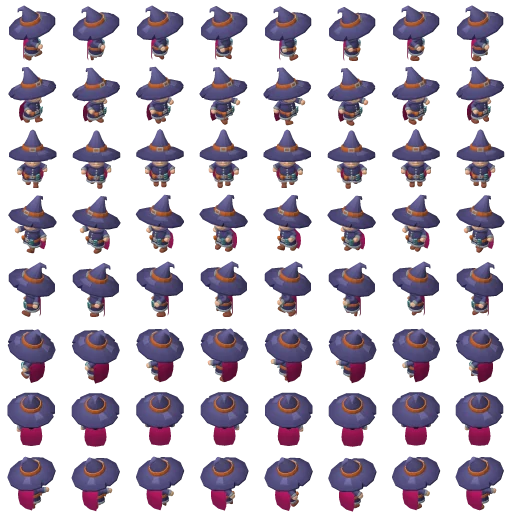
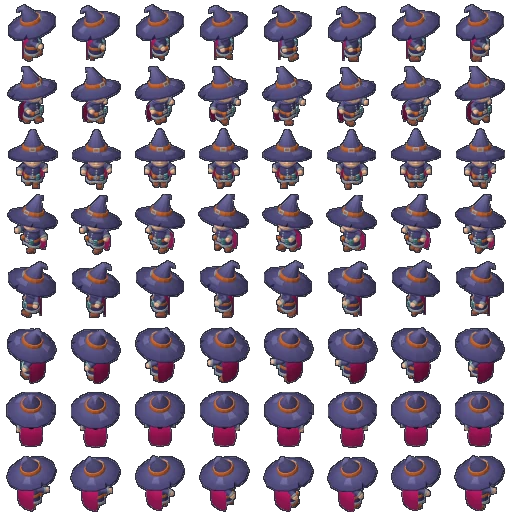
«Город»: больше жителей и непрозрачные фигуры, версия 0.22.2 (#101)
- Жителей до 32 / 52 / 80, до 11 на площадь (у глобуса 12)
- Атласы: плотная альфа и тёмный контур, появление за 0,5 с
- Быстрее начальное заполнение карты
- Документация, CHANGELOG, AGENTS.md, версия 0.22.2

Claude-Session: https://claude.ai/code/session_01NAK4mbhWpKoYFfv8XLsFMr

diff --git a/src/cityLive/wideMap.ts b/src/cityLive/wideMap.ts
@@ -20,15 +20,15 @@ const roads: CityRoute[] = [
 ];
 // Жители ходят по плитке вокруг фонтанов, а не по газонам, дорогам и воде.
 const walkers: CityRoute[] = [
-  route('wide-plaza-finance','pedestrian',[[0.12600,0.53956],[0.13882,0.53615],[0.15182,0.53536],[0.16481,0.53497],[0.17781,0.53488],[0.19081,0.53549],[0.20371,0.53807],[0.21524,0.54806],[0.21847,0.56903],[0.21027,0.58581],[0.19760,0.59076],[0.18466,0.59298],[0.17168,0.59425],[0.15869,0.59457],[0.14572,0.59306],[0.13316,0.58730],[0.12236,0.57492],[0.12015,0.55272]],true,5.2,7),
-  route('wide-plaza-sport','pedestrian',[[0.27400,0.37156],[0.28413,0.35946],[0.29709,0.35765],[0.31008,0.35733],[0.32308,0.35760],[0.33599,0.36000],[0.34538,0.37465],[0.34410,0.39625],[0.33207,0.40411],[0.31917,0.40686],[0.30620,0.40598],[0.29351,0.40104],[0.28134,0.39304]],true,5.2,7),
-  route('wide-plaza-health','pedestrian',[[0.43500,0.33067],[0.44056,0.31173],[0.45339,0.30833],[0.46636,0.30697],[0.47936,0.30654],[0.49236,0.30673],[0.50536,0.30724],[0.51832,0.30888],[0.53074,0.31522],[0.53637,0.33466],[0.53322,0.35679],[0.52248,0.36907],[0.50995,0.37513],[0.49701,0.37695],[0.48401,0.37686],[0.47102,0.37613],[0.45813,0.37317],[0.44567,0.36677],[0.43552,0.35269]],true,5.2,7),
-  route('wide-plaza-growth','pedestrian',[[0.63100,0.38400],[0.64227,0.37284],[0.65509,0.36934],[0.66809,0.36884],[0.68108,0.36974],[0.69394,0.37284],[0.70486,0.38456],[0.70448,0.40561],[0.69387,0.41862],[0.68129,0.42422],[0.66838,0.42691],[0.65540,0.42776],[0.64258,0.42449],[0.63181,0.41206]],true,5.2,7),
-  route('wide-plaza-tasks','pedestrian',[[0.46000,0.77156],[0.46947,0.75884],[0.48243,0.75704],[0.49542,0.75633],[0.50842,0.75640],[0.52140,0.75751],[0.53435,0.75949],[0.54639,0.76706],[0.54625,0.78753],[0.53591,0.80129],[0.52323,0.80575],[0.51023,0.80624],[0.49723,0.80616],[0.48426,0.80489],[0.47189,0.79817],[0.46091,0.78597]],true,5.2,7),
-  route('wide-plaza-joint','pedestrian',[[0.71600,0.64444],[0.72584,0.63081],[0.73877,0.62866],[0.75177,0.62838],[0.76476,0.62916],[0.77771,0.63119],[0.79058,0.63444],[0.80303,0.64066],[0.80762,0.66077],[0.80169,0.68071],[0.78935,0.68690],[0.77638,0.68836],[0.76338,0.68886],[0.75038,0.68889],[0.73738,0.68951],[0.72448,0.68769],[0.71535,0.67204]],true,5.2,7),
-  route('wide-plaza-english','pedestrian',[[0.84100,0.50222],[0.84912,0.48770],[0.86207,0.48582],[0.87506,0.48525],[0.88806,0.48533],[0.90083,0.48900],[0.90816,0.50627],[0.90056,0.52401],[0.88811,0.52991],[0.87512,0.53073],[0.86214,0.52959],[0.84933,0.52586]],true,5.2,7),
-  route('wide-plaza-leisure','pedestrian',[[0.89750,0.76444],[0.90743,0.75115],[0.92025,0.74738],[0.93320,0.74541],[0.94619,0.74478],[0.95918,0.74564],[0.97196,0.74950],[0.98207,0.76330],[0.98420,0.78538],[0.97753,0.80465],[0.96510,0.81050],[0.95212,0.81146],[0.93912,0.81143],[0.92615,0.80996],[0.91322,0.80753],[0.90192,0.79704],[0.89658,0.77647]],true,5.2,7),
-  route('wide-plaza-globe','pedestrian',[[0.42500,0.47822],[0.42820,0.45609],[0.43756,0.44052],[0.44962,0.43197],[0.46217,0.42600],[0.47497,0.42209],[0.48795,0.42098],[0.50093,0.42204],[0.51382,0.42508],[0.52635,0.43109],[0.53819,0.44061],[0.54897,0.45342],[0.55560,0.47282],[0.55487,0.49567],[0.54800,0.51484],[0.53629,0.52461],[0.52369,0.53025],[0.51085,0.53381],[0.49787,0.53500],[0.48487,0.53509],[0.47188,0.53436],[0.45902,0.53117],[0.44648,0.52514],[0.43486,0.51499],[0.42723,0.49661]],true,5.2,9),
+  route('wide-plaza-finance','pedestrian',[[0.12600,0.53956],[0.13882,0.53615],[0.15182,0.53536],[0.16481,0.53497],[0.17781,0.53488],[0.19081,0.53549],[0.20371,0.53807],[0.21524,0.54806],[0.21847,0.56903],[0.21027,0.58581],[0.19760,0.59076],[0.18466,0.59298],[0.17168,0.59425],[0.15869,0.59457],[0.14572,0.59306],[0.13316,0.58730],[0.12236,0.57492],[0.12015,0.55272]],true,5.2,11),
+  route('wide-plaza-sport','pedestrian',[[0.27400,0.37156],[0.28413,0.35946],[0.29709,0.35765],[0.31008,0.35733],[0.32308,0.35760],[0.33599,0.36000],[0.34538,0.37465],[0.34410,0.39625],[0.33207,0.40411],[0.31917,0.40686],[0.30620,0.40598],[0.29351,0.40104],[0.28134,0.39304]],true,5.2,11),
+  route('wide-plaza-health','pedestrian',[[0.43500,0.33067],[0.44056,0.31173],[0.45339,0.30833],[0.46636,0.30697],[0.47936,0.30654],[0.49236,0.30673],[0.50536,0.30724],[0.51832,0.30888],[0.53074,0.31522],[0.53637,0.33466],[0.53322,0.35679],[0.52248,0.36907],[0.50995,0.37513],[0.49701,0.37695],[0.48401,0.37686],[0.47102,0.37613],[0.45813,0.37317],[0.44567,0.36677],[0.43552,0.35269]],true,5.2,11),
+  route('wide-plaza-growth','pedestrian',[[0.63100,0.38400],[0.64227,0.37284],[0.65509,0.36934],[0.66809,0.36884],[0.68108,0.36974],[0.69394,0.37284],[0.70486,0.38456],[0.70448,0.40561],[0.69387,0.41862],[0.68129,0.42422],[0.66838,0.42691],[0.65540,0.42776],[0.64258,0.42449],[0.63181,0.41206]],true,5.2,11),
+  route('wide-plaza-tasks','pedestrian',[[0.46000,0.77156],[0.46947,0.75884],[0.48243,0.75704],[0.49542,0.75633],[0.50842,0.75640],[0.52140,0.75751],[0.53435,0.75949],[0.54639,0.76706],[0.54625,0.78753],[0.53591,0.80129],[0.52323,0.80575],[0.51023,0.80624],[0.49723,0.80616],[0.48426,0.80489],[0.47189,0.79817],[0.46091,0.78597]],true,5.2,11),
+  route('wide-plaza-joint','pedestrian',[[0.71600,0.64444],[0.72584,0.63081],[0.73877,0.62866],[0.75177,0.62838],[0.76476,0.62916],[0.77771,0.63119],[0.79058,0.63444],[0.80303,0.64066],[0.80762,0.66077],[0.80169,0.68071],[0.78935,0.68690],[0.77638,0.68836],[0.76338,0.68886],[0.75038,0.68889],[0.73738,0.68951],[0.72448,0.68769],[0.71535,0.67204]],true,5.2,11),
+  route('wide-plaza-english','pedestrian',[[0.84100,0.50222],[0.84912,0.48770],[0.86207,0.48582],[0.87506,0.48525],[0.88806,0.48533],[0.90083,0.48900],[0.90816,0.50627],[0.90056,0.52401],[0.88811,0.52991],[0.87512,0.53073],[0.86214,0.52959],[0.84933,0.52586]],true,5.2,11),
+  route('wide-plaza-leisure','pedestrian',[[0.89750,0.76444],[0.90743,0.75115],[0.92025,0.74738],[0.93320,0.74541],[0.94619,0.74478],[0.95918,0.74564],[0.97196,0.74950],[0.98207,0.76330],[0.98420,0.78538],[0.97753,0.80465],[0.96510,0.81050],[0.95212,0.81146],[0.93912,0.81143],[0.92615,0.80996],[0.91322,0.80753],[0.90192,0.79704],[0.89658,0.77647]],true,5.2,11),
+  route('wide-plaza-globe','pedestrian',[[0.42500,0.47822],[0.42820,0.45609],[0.43756,0.44052],[0.44962,0.43197],[0.46217,0.42600],[0.47497,0.42209],[0.48795,0.42098],[0.50093,0.42204],[0.51382,0.42508],[0.52635,0.43109],[0.53819,0.44061],[0.54897,0.45342],[0.55560,0.47282],[0.55487,0.49567],[0.54800,0.51484],[0.53629,0.52461],[0.52369,0.53025],[0.51085,0.53381],[0.49787,0.53500],[0.48487,0.53509],[0.47188,0.53436],[0.45902,0.53117],[0.44648,0.52514],[0.43486,0.51499],[0.42723,0.49661]],true,5.2,12),
 ];
 const ships: CityRoute[] = [
   route('wide-bay-west-yacht','water',[[0.10750,0.80444],[0.11883,0.81146],[0.13017,0.81847],[0.14150,0.82548],[0.15283,0.83249],[0.16417,0.83949],[0.17551,0.84646],[0.18686,0.85341],[0.19820,0.86035],[0.20955,0.86732],[0.22088,0.87432],[0.23221,0.88137],[0.24354,0.88838],[0.25488,0.89536],[0.26621,0.90237],[0.27752,0.90950],[0.28879,0.91683],[0.30000,0.92445],[0.31112,0.93246],[0.32218,0.94076],[0.33319,0.94924],[0.34417,0.95784],[0.35514,0.96650],[0.36500,0.97422]],false,34,1),
@@ -102,5 +102,5 @@ export const wideProfile: CityProfile = {
   bridgeMasks: [], palms: [], beach: [], rainShine: [[600,780],[700,806],[800,852],[900,895]], signs: [[970,272],[578,362],[1353,368],[326,540],[1757,483],[748,636],[1490,605],[1007,775],[1790,775]],
   lightPoints: [[53,555],[137,598],[225,632],[316,661],[406,689],[493,728],[585,752],[674,782],[763,817],[849,856],[937,890],[1031,903],[1125,892],[1206,842],[1289,798],[1382,784],[1477,782],[1572,787],[1644,847],[1731,882],[1823,902],[1918,899],[1958,891],[252,607],[432,618],[355,668],[240,630],[548,418],[672,405],[676,452],[556,438],[870,372],[980,345],[1072,385],[980,424],[868,392],[1262,432],[1390,420],[1385,472],[1268,468],[920,868],[1040,852],[1085,893],[965,905],[1432,725],[1570,712],[1600,768],[1450,774],[1682,565],[1795,548],[1790,594],[1684,580],[1795,860],[1940,842],[1950,908],[1815,905],[850,538],[990,474],[1112,545],[980,602],[1183,550],[1103,630],[985,650],[867,631],[783,554],[859,472],[976,450],[1095,467],[1182,541]],
   globe: null, cleanSurfaces: false, occluders: [[971,494,51,50]], vehicleScale: 1.7, birdScale: 2.4,
-  budgets: { low: { road: 8, water: 3, pedestrian: 20 }, medium: { road: 12, water: 4, pedestrian: 34 }, high: { road: 18, water: 5, pedestrian: 52 } },
+  budgets: { low: { road: 8, water: 3, pedestrian: 32 }, medium: { road: 12, water: 4, pedestrian: 52 }, high: { road: 18, water: 5, pedestrian: 80 } },
 };

diff --git a/src/cityLive/render.ts b/src/cityLive/render.ts
@@ -175,7 +175,7 @@ export class CityRenderer {
     const walkers=sim.agents.filter(a=>a.kind==='pedestrian').sort((x,y)=>x.position.y-y.position.y);
     for (const [i,a] of walkers.entries()) {
       if (rain&&i%3===0) continue;
-      const p=a.position,alpha=Math.min(1,a.age/2)*(a.retireAt===undefined?1:Math.max(0,(a.retireAt-a.age)/2));
+      const p=a.position,alpha=Math.min(1,a.age/.5)*(a.retireAt===undefined?1:Math.max(0,(a.retireAt-a.age)/1));
       if (alpha<=0) continue;
       ctx.save();ctx.translate(p.x,p.y);ctx.globalAlpha=alpha;
       const k=Math.max(1,Math.min(2.4,1/Math.max(.05,opts.unitPx??1)));

diff --git a/index.html b/index.html
@@ -4,7 +4,7 @@
     <meta charset="UTF-8" />
     <meta name="viewport" content="width=device-width, initial-scale=1.0, viewport-fit=cover" />
     <title>PLAY YOUR LIFE</title>
-    <meta name="application-version" content="0.22.1" />
+    <meta name="application-version" content="0.22.2" />
     <meta name="description" content="PLAY YOUR LIFE — игровая система развития жизни, целей, привычек и достижений." />
     <meta name="theme-color" content="#edf8ff" />
     <meta name="apple-mobile-web-app-capable" content="yes" />

diff --git a/src/cityLive/simulation.ts b/src/cityLive/simulation.ts
@@ -130,7 +130,7 @@ export class CitySimulation {
   initialize(budget=qualityBudgets.low) {
     for (const kind of ['road','water','pedestrian'] as const) {
       const paths=this.paths.filter(p=>p.route.kind===kind);
-      for (let i=0,attempts=0; i<budget[kind]&&attempts<100; attempts++) {
+      for (let i=0,attempts=0; i<budget[kind]&&attempts<Math.max(100,budget[kind]*5); attempts++) {
         const path=paths[attempts%paths.length];
         if (path && this.spawn(path,path.length*(.07+this.random()*.82))) i++;
       }

diff --git a/scripts/build-city-people.py b/scripts/build-city-people.py
@@ -200,9 +200,17 @@ def render(model, parts, heading, scale, base):
     rgba[..., :3] = np.clip(color, 0, 255) * alpha[..., None]
     rgba[..., 3] = alpha * 255
     small = cv2.resize(rgba, (CELL, CELL), interpolation=cv2.INTER_AREA)
-    a = small[..., 3:4]
-    rgb = np.where(a > 0, small[..., :3] / np.maximum(a, 1e-3) * 255, 0)
-    return np.clip(np.concatenate([rgb, a], 2), 0, 255).astype(np.uint8)
+    a = small[..., 3] / 255.0
+    rgb = np.where(a[..., None] > 0, small[..., :3] / np.maximum(a[..., None] * 255, 1e-3) * 255, 0)
+    # Плотная фигура: мягкие края (суперсэмплинг) подтягиваем к 0/1, внутри альфа ровно 1.
+    solid = np.clip((a - .12) / .45, 0, 1)
+    # Тонкий тёмный контур в 1 px вокруг фигуры — не «тает» на светлой плитке и воде.
+    ring = cv2.dilate((solid > .35).astype(np.uint8), np.ones((3, 3), np.uint8)).astype(np.float32)
+    outline = np.clip(ring - solid, 0, 1) * .9
+    out_a = np.clip(solid + outline * (1 - solid), 0, 1)
+    ink = np.array([22, 26, 40], np.float32)
+    mix = (rgb * solid[..., None] + ink * (outline * (1 - solid))[..., None]) / np.maximum(out_a[..., None], 1e-3)
+    return np.clip(np.concatenate([mix, out_a[..., None] * 255], 2), 0, 255).astype(np.uint8)
 
 
 def main():

diff --git a/CHANGELOG.md b/CHANGELOG.md
@@ -1,5 +1,14 @@
 # Актуальная версия PLAY YOUR LIFE
 
+## 0.22.2 — 13 октября 2026
+
+«Город»: ещё больше жителей и плотные 3D-фигуры.
+
+- Жителей на широкой карте до 32 / 52 / 80 (низкое / среднее / высокое качество), до 11 на площадь (у глобуса до 12). Начальное заполнение карты быстрее.
+- Фигуры больше не «просвечивают»: края спрайтов плотные, вокруг фигуры тонкий тёмный контур; житель появляется за 0,5 с вместо 2 с.
+- Атласы пересобраны скриптом `scripts/build-city-people.py`.
+- Данные игры не менялись.
+
 ## 0.22.1 — 13 октября 2026
 
 «Город»: жители — герои KayKit Adventurers (Kay Lousberg, CC0): Рыцарь, Варвар, Маг, Разбойник и Разбойник в капюшоне. Описание — [LIVE_CITY.md](docs/LIVE_CITY.md).
